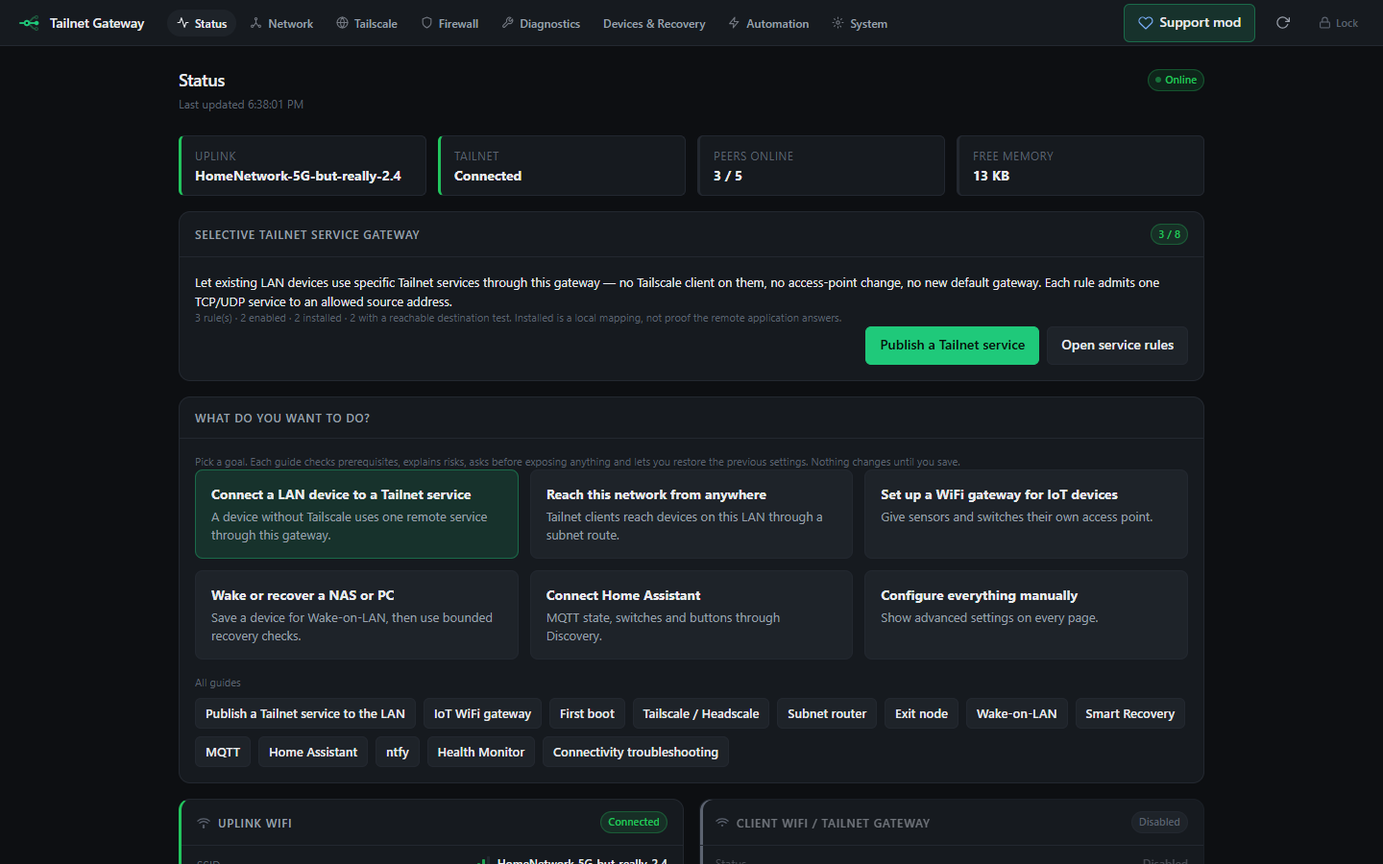
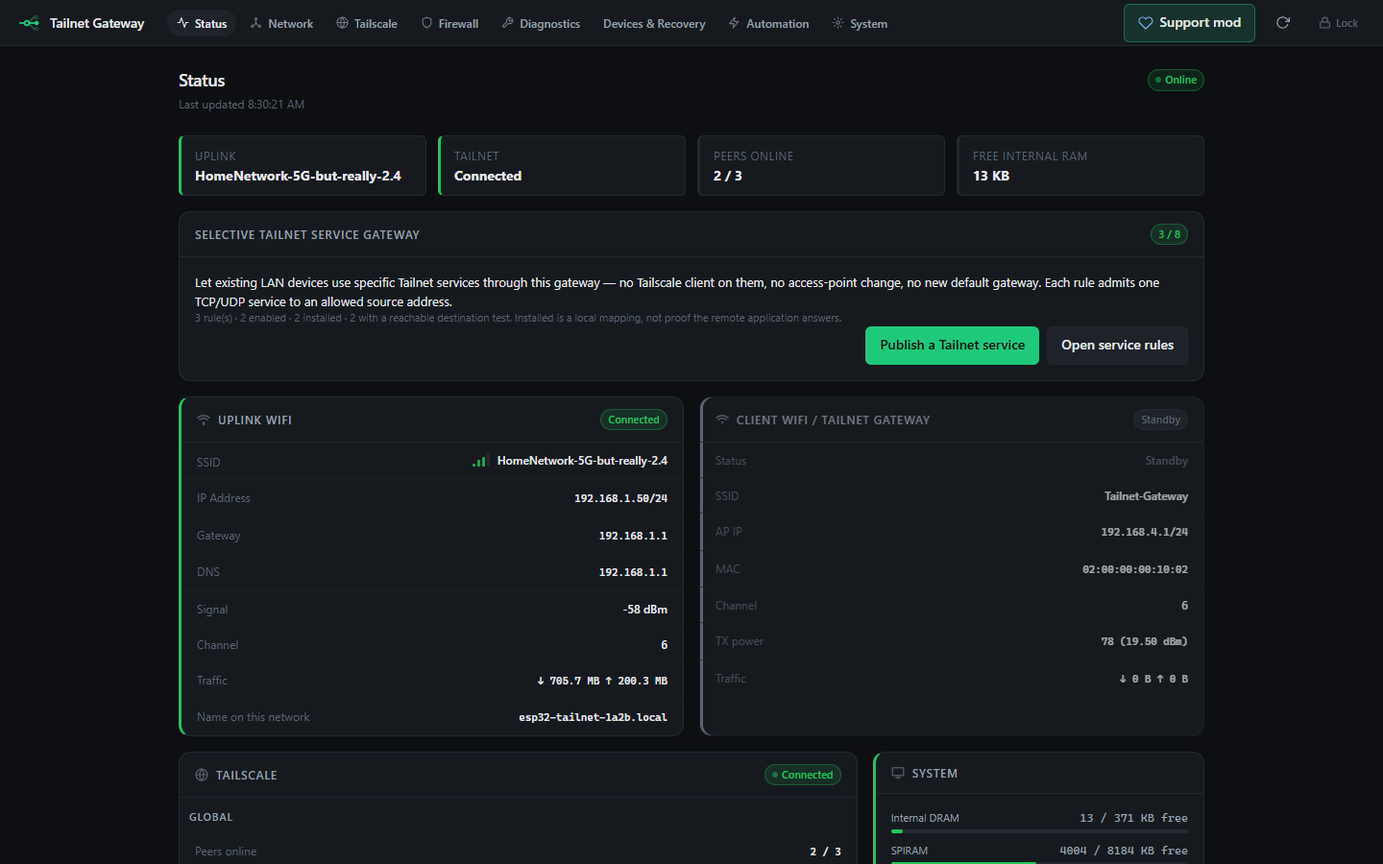
ui: Status page shows live status first; Web UI consistency fixes (2.0.3)
- Status: the Service Gateway card appears only when rules exist, a
  temporary rule is open or the role was chosen in the first-boot wizard;
  "What do you want to do?" moved to the end of the page (all guides kept).
- Uplink card shows the board's own name on the network (link to
  <name>.local); /api/status sta.lan_name and /api/network lan_name added.
- A recovery-only access point reads "Standby" (Status and Network) instead
  of "Disabled"; the internal RAM summary is "Free internal RAM" and its bar
  is coloured by absolute headroom (the normal ~20 KB was always red).
- Firewall in simple mode: summary of active rules instead of an empty page.
- Network: accurate hostname hint and per-board placeholder; TTL override is
  advanced; the LAN -> Tailnet card is "LAN -> Tailnet service gateway".
- Status values wrap at natural points instead of mid-word.
- New strings translated (it/es/zh; coverage 94-95 %). Docs: stale "1.14
  preview" banners removed, Service Gateway guide updated, README status
  screenshot refreshed. UI fixture data made consistent (peer online flags).
- Tests: Status card hidden/visible, goal launcher position, .local link,
  standby, RAM colour, simple-mode firewall summary (79 browser scenarios);
  layout suite PASS. tools/ui_review_shots.cjs captures every tab for reviews.

diff --git a/main/index.html b/main/index.html
@@ -558,7 +558,7 @@
       font-weight: var(--weight-medium);
       color: var(--fg-primary);
       text-align: right;
-      word-break: break-all;
+      overflow-wrap: anywhere;   /* long names wrap, words are not split mid-way */
     }
 
     .stat-value.mono { font-family: var(--font-mono); font-size: var(--text-xs); }
@@ -1596,6 +1596,7 @@
     html:lang(zh-Hans) body { font-family: -apple-system, "Segoe UI", "PingFang SC", "Microsoft YaHei", "Noto Sans CJK SC", "Noto Sans SC", system-ui, sans-serif; }
     html:lang(de) .btn, html:lang(fr) .btn, html:lang(es) .btn, html:lang(it) .btn { white-space: normal; text-align: center; }
     body.ui-simple [data-advanced] { display: none !important; }
+    body:not(.ui-simple) .fw-simple-summary { display: none; }
     .adv-note { display: flex; flex-wrap: wrap; gap: var(--sp-3); align-items: center; justify-content: space-between;
       border: 1px dashed var(--border); border-radius: var(--radius-md); padding: 10px 14px; margin-bottom: var(--sp-4);
       color: var(--fg-secondary); font-size: var(--text-md); }
@@ -2005,27 +2006,18 @@
         <div class="glance-item" id="glance-uplink"><span class="glance-label">Uplink</span><strong>—</strong></div>
         <div class="glance-item" id="glance-tailnet"><span class="glance-label">Tailnet</span><strong>—</strong></div>
         <div class="glance-item" id="glance-peers"><span class="glance-label">Peers online</span><strong>—</strong></div>
-        <div class="glance-item" id="glance-memory"><span class="glance-label">Free memory</span><strong>—</strong></div>
+        <div class="glance-item" id="glance-memory" title="Internal RAM is the scarce resource; external PSRAM is shown in the System card"><span class="glance-label">Free internal RAM</span><strong>—</strong></div>
       </div>
 
-      <div class="card mb-4" id="sg-home-card" data-capability="lan-tailnet-forwarding">
+      <!-- Shown when service rules exist, a temporary rule is open or the
+           first-boot wizard chose this role; the goal tile below always offers it. -->
+      <div class="card mb-4" id="sg-home-card" data-capability="lan-tailnet-forwarding" hidden>
         <div class="card-header"><div class="card-header-left"><span class="card-title">Selective Tailnet Service Gateway</span></div><span class="badge badge-neutral" id="sg-home-badge">—</span></div>
         <div class="card-body">
           <p>Let existing LAN devices use specific Tailnet services through this gateway — no Tailscale client on them, no access-point change, no new default gateway. Each rule admits one TCP/UDP service to an allowed source address.</p>
           <p class="form-hint" id="sg-home-summary" role="status">Loading service rules…</p>
           <div class="page-header-actions"><button class="btn btn-primary" id="sg-home-guide" type="button">Publish a Tailnet service</button>
             <a class="btn btn-secondary" href="#network" id="sg-home-open">Open service rules</a></div>
-        </div>
-      </div>
-
-      <!-- Goal launcher: guided setup by purpose -->
-      <div class="card mb-4" id="wizard-card">
-        <div class="card-header"><div class="card-header-left"><span class="card-title">What do you want to do?</span></div></div>
-        <div class="card-body">
-          <p class="form-hint">Pick a goal. Each guide checks prerequisites, explains risks, asks before exposing anything and lets you restore the previous settings. Nothing changes until you save.</p>
-          <div class="goal-grid" id="goal-grid"></div>
-          <p class="form-hint" style="margin-top:var(--sp-4)">All guides</p>
-          <div id="wizard-list" class="btn-row" style="margin-top:var(--sp-2)"></div>
         </div>
       </div>
 
@@ -2083,6 +2075,10 @@
             <div class="stat-row">
               <span class="stat-label">Traffic</span>
               <span class="stat-value mono" id="uplink-traffic">—</span>
+            </div>
+            <div class="stat-row">
+              <span class="stat-label">Name on this network</span>
+              <a class="stat-value mono" id="uplink-lan-name" href="#" data-no-i18n>—</a>
             </div>
           </div>
         </div>
@@ -2285,6 +2281,16 @@
         </div>
       </div><!-- /grid row 2 -->
 
+      <!-- Goal launcher: guided setup by purpose, after the live status -->
+      <div class="card mt-4 mb-4" id="wizard-card">
+        <div class="card-header"><div class="card-header-left"><span class="card-title">What do you want to do?</span></div></div>
+        <div class="card-body">
+          <p class="form-hint">Pick a goal. Each guide checks prerequisites, explains risks, asks before exposing anything and lets you restore the previous settings. Nothing changes until you save.</p>
+          <div class="goal-grid" id="goal-grid"></div>
+          <p class="form-hint" style="margin-top:var(--sp-4)">All guides</p>
+          <div id="wizard-list" class="btn-row" style="margin-top:var(--sp-2)"></div>
+        </div>
+      </div>
     </div><!-- /page-status -->
 
     <!-- =================================================================
@@ -2309,10 +2315,10 @@
           <div class="grid grid-cols-2">
             <div class="form-group">
               <label class="form-label" for="net-hostname">Hostname</label>
-              <input class="input" type="text" id="net-hostname" placeholder="esp32-tailscale" maxlength="63">
-              <span class="form-hint">Used as DHCP Option 12 on every uplink and as the default Tailscale machine name.</span>
+              <input class="input" type="text" id="net-hostname" maxlength="63">
+              <span class="form-hint">Name in your router's client list (DHCP) and on your network as name.local. Leave empty to use this board's own name, shown in the box. The Tailscale machine name is set on the Tailscale page.</span>
             </div>
-            <div class="form-group">
+            <div class="form-group" data-advanced>
               <label class="form-label" for="net-sta-ttl">STA outgoing TTL override (0 = off)</label>
               <input class="input mono" type="number" id="net-sta-ttl" min="0" max="255" step="1" placeholder="0">
               <span class="form-hint">Rewrites the TTL hop-limit on every outgoing IPv4 frame on the STA side. Typical use: set to <strong>64</strong> to cloak a tethered downstream as the phone's own traffic when the upstream carrier throttles hotspot-detected packets. Applied live on save.</span>
@@ -2542,7 +2548,7 @@
 
       <!-- ===== LAN -> Tailnet forwarding (independent of AP-side NAPT) ===== -->
       <div class="card mt-4" data-capability="lan-tailnet-forwarding">
-        <div class="card-header"><div class="card-header-left"><span class="card-title">LAN → Tailnet Port Forwarding</span></div><span class="badge badge-neutral" id="tf-badge">—</span></div>
+        <div class="card-header"><div class="card-header-left"><span class="card-title">LAN → Tailnet service gateway</span></div><span class="badge badge-neutral" id="tf-badge">—</span></div>
         <div class="card-body">
           <p class="form-hint" style="margin:0 0 0.75rem 0;">Expose selected Tailnet services on the ESP32 uplink-LAN address. LAN clients do not need Tailscale and do not need to join the ESP32 access point. This table is fully separate from AP-side port forwarding.</p>
           <p class="form-hint">Source CIDRs filter addresses, not client identity. Use the narrowest subnet and keep authentication on the remote service. A mapping being installed does not prove the service is reachable.</p>
@@ -2832,6 +2838,13 @@
         </div>
         <div class="page-header-actions">
           <button class="btn btn-secondary btn-md" id="fw-reload">Reload</button>
+        </div>
+      </div>
+      <div class="card fw-simple-summary">
+        <div class="card-body">
+          <p id="fw-simple-text" role="status">Loading…</p>
+          <p class="form-hint">The firewall lists are an advanced feature. With no rule, traffic follows the normal routing and the other protections still apply.</p>
+          <button class="btn btn-secondary btn-sm" type="button" id="fw-show-advanced">Show advanced settings</button>
         </div>
       </div>
       <div id="fw-lists" data-advanced>
@@ -4144,6 +4157,9 @@
       document.getElementById('uplink-rssi').textContent    = (ul.rssi != null ? ul.rssi + ' dBm' : '—');
       document.getElementById('uplink-channel').textContent = ul.channel != null ? String(ul.channel) : '—';
       document.getElementById('uplink-traffic').textContent = formatTraffic(ul.bytes_in, ul.bytes_out);
+      var lanName = document.getElementById('uplink-lan-name');
+      if (ul.lan_name) { lanName.textContent = ul.lan_name + '.local'; lanName.href = 'http://' + ul.lan_name + '.local/'; }
+      else { lanName.textContent = '—'; lanName.removeAttribute('href'); }
       renderSignalBars('uplink-signal-bars', ul.rssi != null ? ul.rssi : -90);
 
       var uplinkBadge = document.getElementById('uplink-status-badge');
@@ -4168,8 +4184,12 @@
       // AP
       var ap = data.ap || {};
       var apEnabled = ap.enabled !== false;
+      /* Recovery-only access point: off while the uplink works, back on after
+       * 60 s without the home WiFi. That is a standby, not a disabled feature. */
+      var apStandby = !apEnabled && ap.auto_off_when_connected === true;
       var apStatus = document.getElementById('ap-runtime-status');
-      apStatus.textContent = apEnabled ? 'Enabled' : 'Disabled';
+      apStatus.textContent = apEnabled ? 'Enabled' : apStandby ? 'Standby' : 'Disabled';
+      apStatus.title = apStandby ? 'Recovery-only: turns on if the home WiFi is lost' : '';
       apStatus.style.color = apEnabled ? 'var(--success)' : 'var(--text-muted)';
       document.getElementById('ap-ssid').textContent    = ap.ssid    || '—';
       document.getElementById('ap-ip').textContent      = ap.ip ? (ap.ip + (ap.prefix != null ? '/' + ap.prefix : '')) : '—';
@@ -4182,7 +4202,7 @@
       var apClientsBadge = document.getElementById('ap-clients-badge');
       apClientsBadge.textContent = apEnabled
         ? (ap.clients != null ? ap.clients + ' client' + (ap.clients !== 1 ? 's' : '') : '—')
-        : 'Disabled';
+        : apStandby ? 'Standby' : 'Disabled';
       apClientsBadge.className = (apEnabled && typeof ap.clients === 'number' && ap.clients > 0) ? 'badge badge-success' : 'badge badge-neutral';
       document.getElementById('card-ap').className = apEnabled ? 'card card-stripe-accent' : 'card';
       setFeatureCardState('card-ap', apEnabled);
@@ -4190,20 +4210,25 @@
       /* System tile — internal DRAM + SPIRAM bars, CPU load %, CPU temp.
        * Backend reports mem_internal_free/total, mem_spiram_free/total,
        * cpu_load_pct, cpu_temp_c (degC) — all optional, "—" if absent. */
-      function renderMemBar(freeBytes, totalBytes, valEl, barEl) {
+      /* Internal RAM is almost fully allocated by design (WiFi, lwIP, VPN);
+       * what matters is the absolute headroom, so it is coloured by free KB.
+       * External PSRAM keeps the percentage scale. */
+      function renderMemBar(freeBytes, totalBytes, valEl, barEl, minFreeKB) {
         if (!totalBytes) { valEl.textContent = '—'; barEl.style.width = '0%'; return; }
         var freeKB  = Math.round(freeBytes / 1024);
         var totalKB = Math.round(totalBytes / 1024);
         var usedPct = Math.max(0, Math.min(100, Math.round(100 * (totalBytes - freeBytes) / totalBytes)));
         valEl.textContent = freeKB + ' / ' + totalKB + ' KB free';
-        barEl.style.width = (100 - usedPct) + '%';
-        barEl.style.background = (usedPct > 90) ? 'var(--danger)'
-                                : (usedPct > 75) ? 'var(--warning)'
-                                :                  'var(--success)';
+        barEl.style.width = Math.max(2, 100 - usedPct) + '%';
+        barEl.style.background = minFreeKB
+          ? (freeKB < minFreeKB ? 'var(--danger)' : freeKB < minFreeKB * 1.5 ? 'var(--warning)' : 'var(--success)')
+          : (usedPct > 90) ? 'var(--danger)'
+          : (usedPct > 75) ? 'var(--warning)'
+          :                  'var(--success)';
       }
       renderMemBar(data.mem_internal_free, data.mem_internal_total,
                     document.getElementById('sys-mem-internal-val'),
-                    document.getElementById('sys-mem-internal-bar'));
+                    document.getElementById('sys-mem-internal-bar'), 8);
       renderMemBar(data.mem_spiram_free, data.mem_spiram_total,
                     document.getElementById('sys-mem-spiram-val'),
                     document.getElementById('sys-mem-spiram-bar'));
@@ -5113,9 +5138,15 @@
     /* Choices made in the first-boot wizard live on the gateway (the setup page
      * ran on another address). Recommend those roles and open the first
      * role's guide once per browser. */
+    var s_setup_roles = null, s_sg_rules = 0, s_sg_open = 0;
+    function updateServiceGatewayCard() {
+      var card = document.getElementById('sg-home-card');
+      if (card) card.hidden = !(s_sg_rules > 0 || s_sg_open > 0 || (s_setup_roles && s_setup_roles.indexOf('lan-tailnet') >= 0));
+    }
     function applySetupChoices() {
       fetch('/api/system', { credentials: 'same-origin' }).then(function (r) { return r.json(); }).then(function (d) {
         var roles = String(d.setup_roles || '').split(',').filter(Boolean), seen = null;
+        s_setup_roles = roles; updateServiceGatewayCard();
         try { seen = localStorage.getItem('setup-roles-opened'); if (localStorage.getItem('ui-advanced') === null && d.ui_advanced_default) setUiAdvanced(true); } catch (e) {}
         document.querySelectorAll('#goal-grid .goal-tile').forEach(function (b, i) {
           var g = GOALS[i]; if (g && roles.indexOf(g.wizard || 'advanced') >= 0) b.classList.add('recommended');
@@ -5398,6 +5429,7 @@
           s_net_list.forEach(function (n) { if (!n.static_ip) n.static_ip = {}; });
           renderNetList();
           document.getElementById('net-hostname').value     = d.hostname || '';
+          document.getElementById('net-hostname').placeholder = d.lan_name || '';
           document.getElementById('net-sta-ttl').value      = (typeof d.sta_ttl_override === 'number') ? d.sta_ttl_override : 0;
           document.getElementById('net-hostname-save').disabled = true;
           document.getElementById('net-sta-save').disabled  = true;
@@ -5455,10 +5487,11 @@
           var clients = (typeof ap.clients === 'number') ? ap.clients : 0;
           var apEnabled = ap.enabled !== false;
           apBadge.className = (apEnabled && clients > 0) ? 'badge badge-success' : 'badge badge-neutral';
-          apBadge.textContent = apEnabled ? (clients === 1 ? '1 client' : (clients + ' clients')) : 'Disabled';
+          var apStandby = !apEnabled && ap.auto_off_when_connected === true;
+          apBadge.textContent = apEnabled ? (clients === 1 ? '1 client' : (clients + ' clients')) : apStandby ? 'Standby' : 'Disabled';
           apClients.textContent = apEnabled
             ? (clients + (ap.ip ? '   (AP IP: ' + ap.ip + ')' : ''))
-            : 'Disabled — client WiFi is in standby while the uplink is connected';
+            : apStandby ? 'Standby: turns on if the home WiFi is lost for 60 s' : 'Off';
         }).catch(function () {});
 
       /* DHCP reservations + connected-client/lease snapshot. */
@@ -6067,7 +6100,7 @@
         var rules=Array.isArray(d.rules)?d.rules:[],enabled=rules.filter(function(r){return r.enabled;}).length,
           installed=rules.filter(function(r){return r.installed;}).length,
           tested=rules.filter(function(r){return r.destination_check&&r.destination_check.state==='reachable';}).length;
-        loaded=true;badge.textContent=rules.length+' / '+(d.max||8);
+        loaded=true;s_sg_rules=rules.length;updateServiceGatewayCard();badge.textContent=rules.length+' / '+(d.max||8);
         badge.className='badge '+(installed?'badge-success':'badge-neutral');
         out.textContent=!rules.length?'No service rules yet. Start with the guide: it checks prerequisites, explains the exposure and helps you test the destination before enabling it.'
           :rules.length+' rule(s) · '+enabled+' enabled · '+installed+' installed · '+tested+' with a reachable destination test'
@@ -6076,6 +6109,7 @@
       .then(function(leases){
         if(!Array.isArray(leases))return;
         var open=leases.filter(function(l){return l&&l.temporary&&l.effective_enabled&&Number.isInteger(l.remaining_s)&&l.remaining_s>0;});
+        s_sg_open=open.length;updateServiceGatewayCard();
         if(!open.length)return;
         var next=Math.min.apply(null,open.map(function(l){return l.remaining_s;}));
         out.textContent+=' '+open.length+' temporary rule(s) open; the next closes in '+(next>=3600?Math.round(next/360)/10+' h':Math.max(1,Math.round(next/60))+' min')+'.';
@@ -7692,9 +7726,12 @@
       apiFetch('/api/firewall')
         .then(function (r) { return r.json(); })
         .then(function (d) {
-          var html = '';
-          (d.lists || []).forEach(function (list) { html += renderAclCard(list); });
+          var html = '', rules = 0;
+          (d.lists || []).forEach(function (list) { html += renderAclCard(list); rules += (list.rules || []).length; });
           document.getElementById('fw-lists').innerHTML = html;
+          document.getElementById('fw-simple-text').textContent = rules
+            ? (rules === 1 ? '1 firewall rule is active.' : rules + ' firewall rules are active.')
+            : 'No firewall rules: all four lists are empty.';
           attachFirewallHandlers();
         })
         .catch(function () {
@@ -7702,6 +7739,8 @@
             '<div style="padding:1.5rem; text-align:center; color:var(--danger);">Failed to load firewall rules.</div>';
         });
     }
+
+    document.getElementById('fw-show-advanced').addEventListener('click', function () { setUiAdvanced(true); });
 
     function attachFirewallHandlers() {
       var names = ['to_esp', 'from_esp', 'to_ap', 'from_ap'];

diff --git a/main/web_ui.c b/main/web_ui.c
@@ -22,6 +22,7 @@
 #include "lwip/sockets.h"
 #include "sockaddr_ipv4.h"
 #include "web_ui.h"
+#include "lan_name.h"
 #include "json_guard.h"
 #include "web_origin.h"
 #include "homelab_ops.h"
@@ -377,6 +378,11 @@ static esp_err_t status_handler(httpd_req_t *req)
     }
     cJSON_AddNumberToObject(sta, "bytes_in",  (double)netif_hooks_get_sta_bytes_in());
     cJSON_AddNumberToObject(sta, "bytes_out", (double)netif_hooks_get_sta_bytes_out());
+    {
+        char lan[LAN_NAME_MAX + 1];
+        lan_name_get(lan, sizeof lan);
+        cJSON_AddStringToObject(sta, "lan_name", lan);   /* "<lan_name>.local" on the uplink */
+    }
     cJSON_AddItemToObject(root, "sta", sta);
 
     /* AP (downlink) — SSID + channel from live wifi_config, MAC, clients, IP. */
@@ -549,8 +555,14 @@ static esp_err_t network_handler(httpd_req_t *req)
     }
     cJSON_AddItemToObject(root, "networks", nets);
 
-    /* Hostname is a device-wide setting (not per-network). */
+    /* Hostname is a device-wide setting (not per-network). lan_name is what
+     * the board actually uses (saved hostname or its esp32-tailnet-xxxx). */
     add_nvs_string(root, "hostname", "hostname");
+    {
+        char lan[LAN_NAME_MAX + 1];
+        lan_name_get(lan, sizeof lan);
+        cJSON_AddStringToObject(root, "lan_name", lan);
+    }
 
     /* STA TTL hop-limit override — 0 means passthrough (no rewrite),
      * non-zero is the value the netif hook stamps on every outgoing

diff --git a/tools/test_site_presentation.py b/tools/test_site_presentation.py
@@ -46,7 +46,7 @@ installer = (site/'install-firmware/index.html').read_text(encoding='utf-8')
 assert ('<esp-web-install-button manifest=' in installer) == build_site.NEXT_PUBLISHED
 if build_site.NEXT_PUBLISHED:
     changes = (site/'changelog/index.html').read_text(encoding='utf-8')
-    assert f'[{build_site.NEXT_VERSION}]' in changes and '[2.0.0]' in changes and 'dev.8' not in changes
+    assert f'[{build_site.NEXT_VERSION}]' in changes and 'dev.8' not in changes
     assert '<h3>Added</h3>' in changes
 workflow=(root/'.github/workflows/pages.yml').read_text(encoding='utf-8')
 assert '  workflow_dispatch:' in workflow and '  push:' not in workflow

diff --git a/CHANGELOG.md b/CHANGELOG.md
@@ -4,6 +4,28 @@ All notable changes to this project are documented here. The format is
 based on [Keep a Changelog](https://keepachangelog.com/en/1.1.0/), and
 this project adheres to [Semantic Versioning](https://semver.org/spec/v2.0.0.html).
 
+## [2.0.3] — 2026-10-24
+
+### Improved
+
+- **Status page:** live status comes first. The Service Gateway card appears
+  only when service rules exist, a temporary rule is open or that role was
+  chosen in the first-boot wizard; *What do you want to do?* moved to the end
+  of the page and still offers every guide.
+- The Uplink card shows the board's own name on the network
+  (`esp32-tailnet-xxxx.local`, as a link).
+- A recovery-only access point is shown as **Standby** (it turns on if the home
+  WiFi is lost) instead of *Disabled*.
+- Internal RAM: the summary says *Free internal RAM*, and its bar is coloured by
+  absolute headroom, so the normal ~20 KB is no longer shown as an alarm.
+- Firewall in simple mode shows a summary of active rules instead of an empty page.
+- Network: the hostname hint describes the actual behaviour (DHCP name and
+  `name.local`; empty uses the board's own name, shown in the field) and the
+  TTL override moved to the advanced settings; the LAN → Tailnet card is named
+  *LAN → Tailnet service gateway*.
+- Long values in status rows wrap at natural points instead of mid-word on phones.
+- New strings translated into Italian, Spanish and Simplified Chinese.
+
 ## [2.0.2] — 2026-10-23
 
 ### Fixed

diff --git a/README.md b/README.md
@@ -195,14 +195,14 @@ drop-in targets.
 
 ## 9. Screenshots
 
-Firmware v2.0.1 Web UI, rendered from the page embedded in the firmware with
+Firmware v2.0.3 Web UI, rendered from the page embedded in the firmware with
 invented documentation data (no real network, device or credential).
 [Captures from a real gateway](https://mattboxx.github.io/esp32-tailnet-gateway/screenshots/)
 are on the website.
 
 <p align="center">
-<img src="docs/images/v2-status.png" alt="Status dashboard: uplink, Tailnet and peers, Selective Tailnet Service Gateway summary and goal-based guides" width="88%">
-<br><em>Status: connection summary, service rules and "What do you want to do?" guides</em>
+<img src="docs/images/v2-status.png" alt="Status dashboard: uplink, Tailnet, peers and internal RAM at a glance, the Service Gateway rules summary, uplink with the board's .local name and the access point in standby" width="88%">
+<br><em>Status: live summary first; the Service Gateway card appears once rules are in use</em>
 </p>
 
 <p align="center">

diff --git a/docs/SERVICE-GATEWAY.md b/docs/SERVICE-GATEWAY.md
@@ -25,7 +25,9 @@ broker on another site, `broker.your-tailnet.ts.net:1883`.
 
 1. Give the ESP32 a fixed LAN address, e.g. `192.168.1.50`, and join it to
    your tailnet. Allow its identity to reach the broker in your tailnet ACL.
-2. Status page → **Publish a Tailnet service** (or Network → LAN → Tailnet).
+2. Status → **What do you want to do?** → **Connect a LAN device to a Tailnet
+   service** (or Network → **LAN → Tailnet service gateway**). Once rules exist,
+   the Status page also shows a Service Gateway card with **Publish a Tailnet service**.
    The guide checks uplink, control connection, web password and a free slot,
    lists the risks and asks you to acknowledge the exposure.
 3. Add a rule: TCP, listen `18830`, destination `broker.your-tailnet.ts.net`,

diff --git a/docs/NAS-RECOVERY.md b/docs/NAS-RECOVERY.md
@@ -1,10 +1,5 @@
 # NAS and homelab recovery checklist
 
-> **1.14 development preview.** This guide includes unreleased features; it
-> does not imply a new firmware download. Public stable remains
-> [Mattboxx 1.13](https://github.com/Mattboxx/esp32-tailscale-gateway-NAS-recovery/tree/v0.1.38-Mattboxx-1.13).
-
-
 This firmware can provide a management node independent of your NAS operating
 system. It is not file recovery, IPMI/KVM, a power relay, or fully out-of-band
 management. A stable release channel does not certify every NAS or network.

diff --git a/docs/WEBSITE.md b/docs/WEBSITE.md
@@ -1,10 +1,5 @@
 # Website, SEO and indexing
 
-> **1.14 development preview.** This guide includes unreleased features; it
-> does not imply a new firmware download. Public stable remains
-> [Mattboxx 1.13](https://github.com/Mattboxx/esp32-tailscale-gateway-NAS-recovery/tree/v0.1.38-Mattboxx-1.13).
-
-
 The project website is a static site generated by `tools/build_site.py` from
 `website/` (page fragments and CSS/JS) plus `assets/brand` and
 `assets/diagrams`. No framework, analytics, cookies, web fonts or third-party

diff --git a/docs/CONFIGURATION.md b/docs/CONFIGURATION.md
@@ -1,10 +1,5 @@
 # Configuration reference
 
-> **1.14 development preview.** This guide includes unreleased features; it
-> does not imply a new firmware download. Public stable remains
-> [Mattboxx 1.13](https://github.com/Mattboxx/esp32-tailscale-gateway-NAS-recovery/tree/v0.1.38-Mattboxx-1.13).
-
-
 Every setting below is configured from the device web UI. Changes are
 written to NVS; some require a reboot to take effect (the UI flags a
 pending reboot when so).
